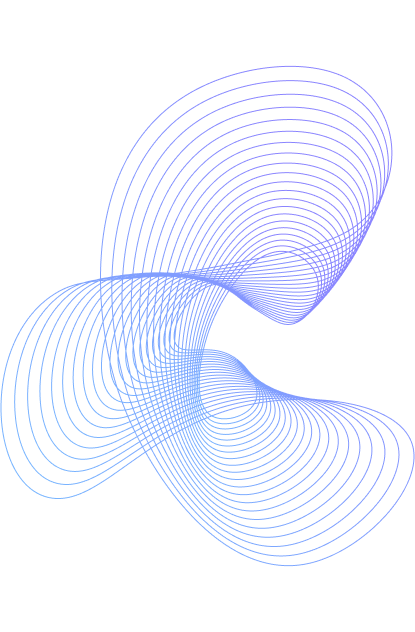
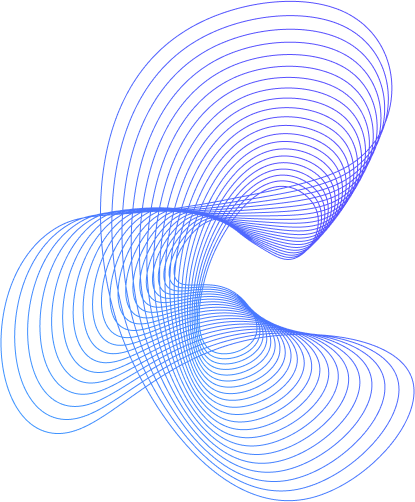
1

diff --git a/styles.css b/styles.css
@@ -80,10 +80,10 @@ button {
 .promo-1c__wrapper {
   width: 100%;
   padding-top: 65px;
-  padding-bottom: 65px;
+  padding-bottom: 43px;
   box-sizing: border-box;
   display: grid;
-  grid-template-columns: 720px 632px;
+  grid-template-columns: auto auto;
   grid-template-rows: auto auto;
 }
 .promo-1c__text {
@@ -123,6 +123,16 @@ button {
 .promo-1c__image {
   grid-column: 2 / 3;
   grid-row: 1 / 3;
+  position: relative;
+  width: 415px;
+  height: 502px;
+  top: -18px;
+  left: -30px;
+}
+.promo-1c__image img {
+  width: 100%;
+  height: 100%;
+  object-fit: contain;
 }
 .promo-1c__items {
   grid-column: 1 / 2;
@@ -131,7 +141,7 @@ button {
   display: flex;
   align-items: center;
   gap: 24px;
-  margin-top: 35px;
+  height: fit-content;
 }
 .promo-1c__item {
   display: flex;

diff --git a/index.html b/index.html
@@ -33,7 +33,9 @@
                   Начать интеграцию
                 </button>
               </div>
-              <div class="promo-1c__image"></div>
+              <div class="promo-1c__image">
+                <img src="./images/promo-1c.png" alt="картинка" />
+              </div>
               <div class="promo-1c__items">
                 <!--item-->
                 <div class="promo-1c__item">
